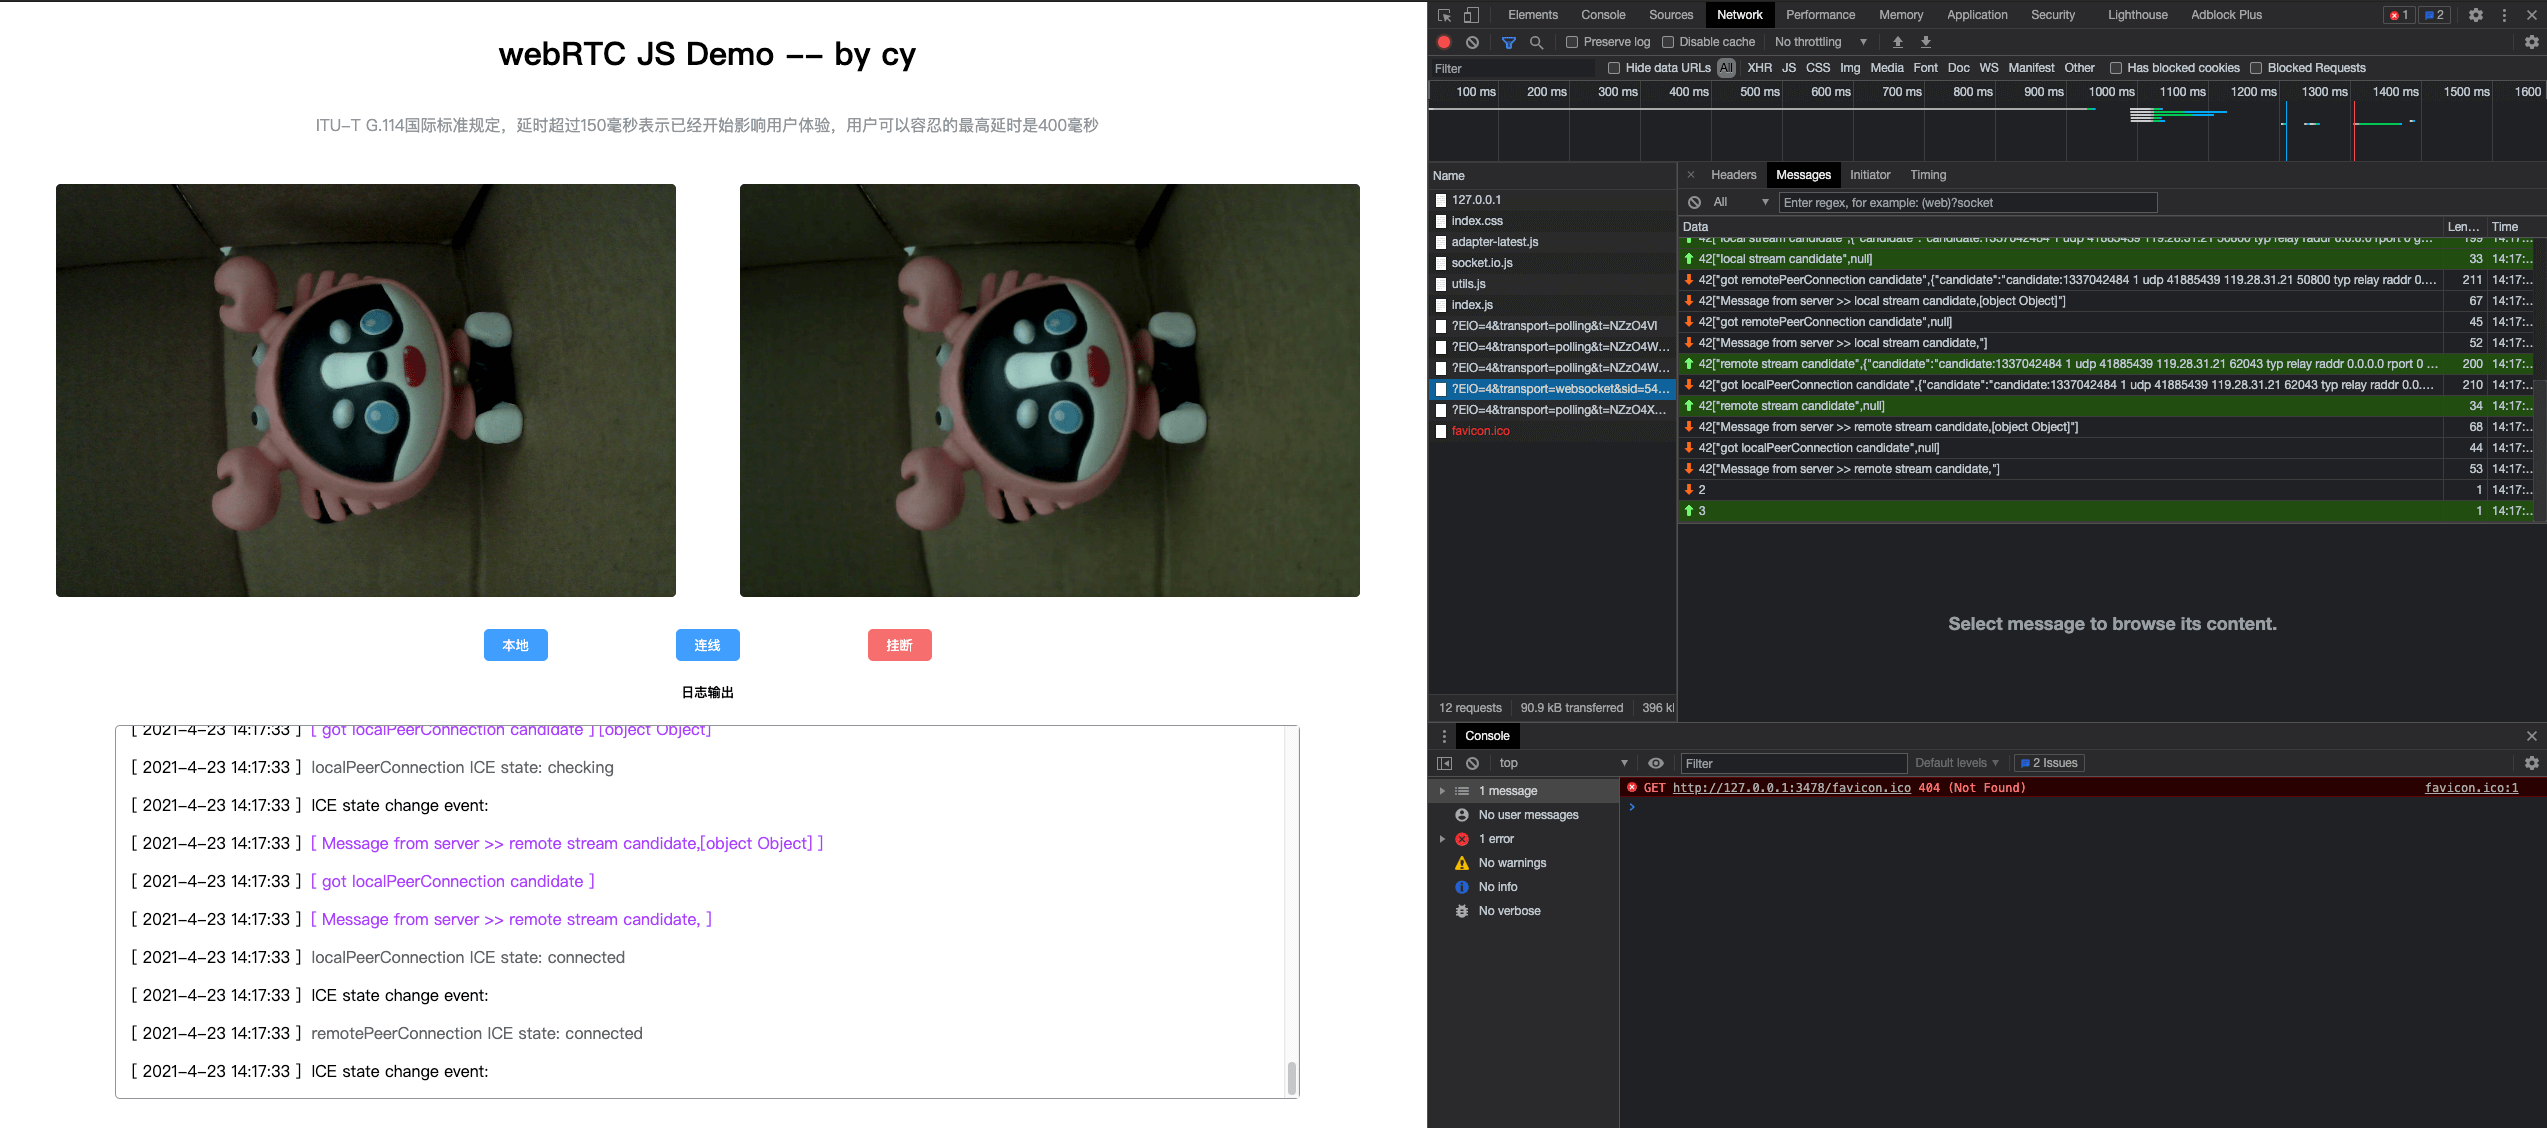
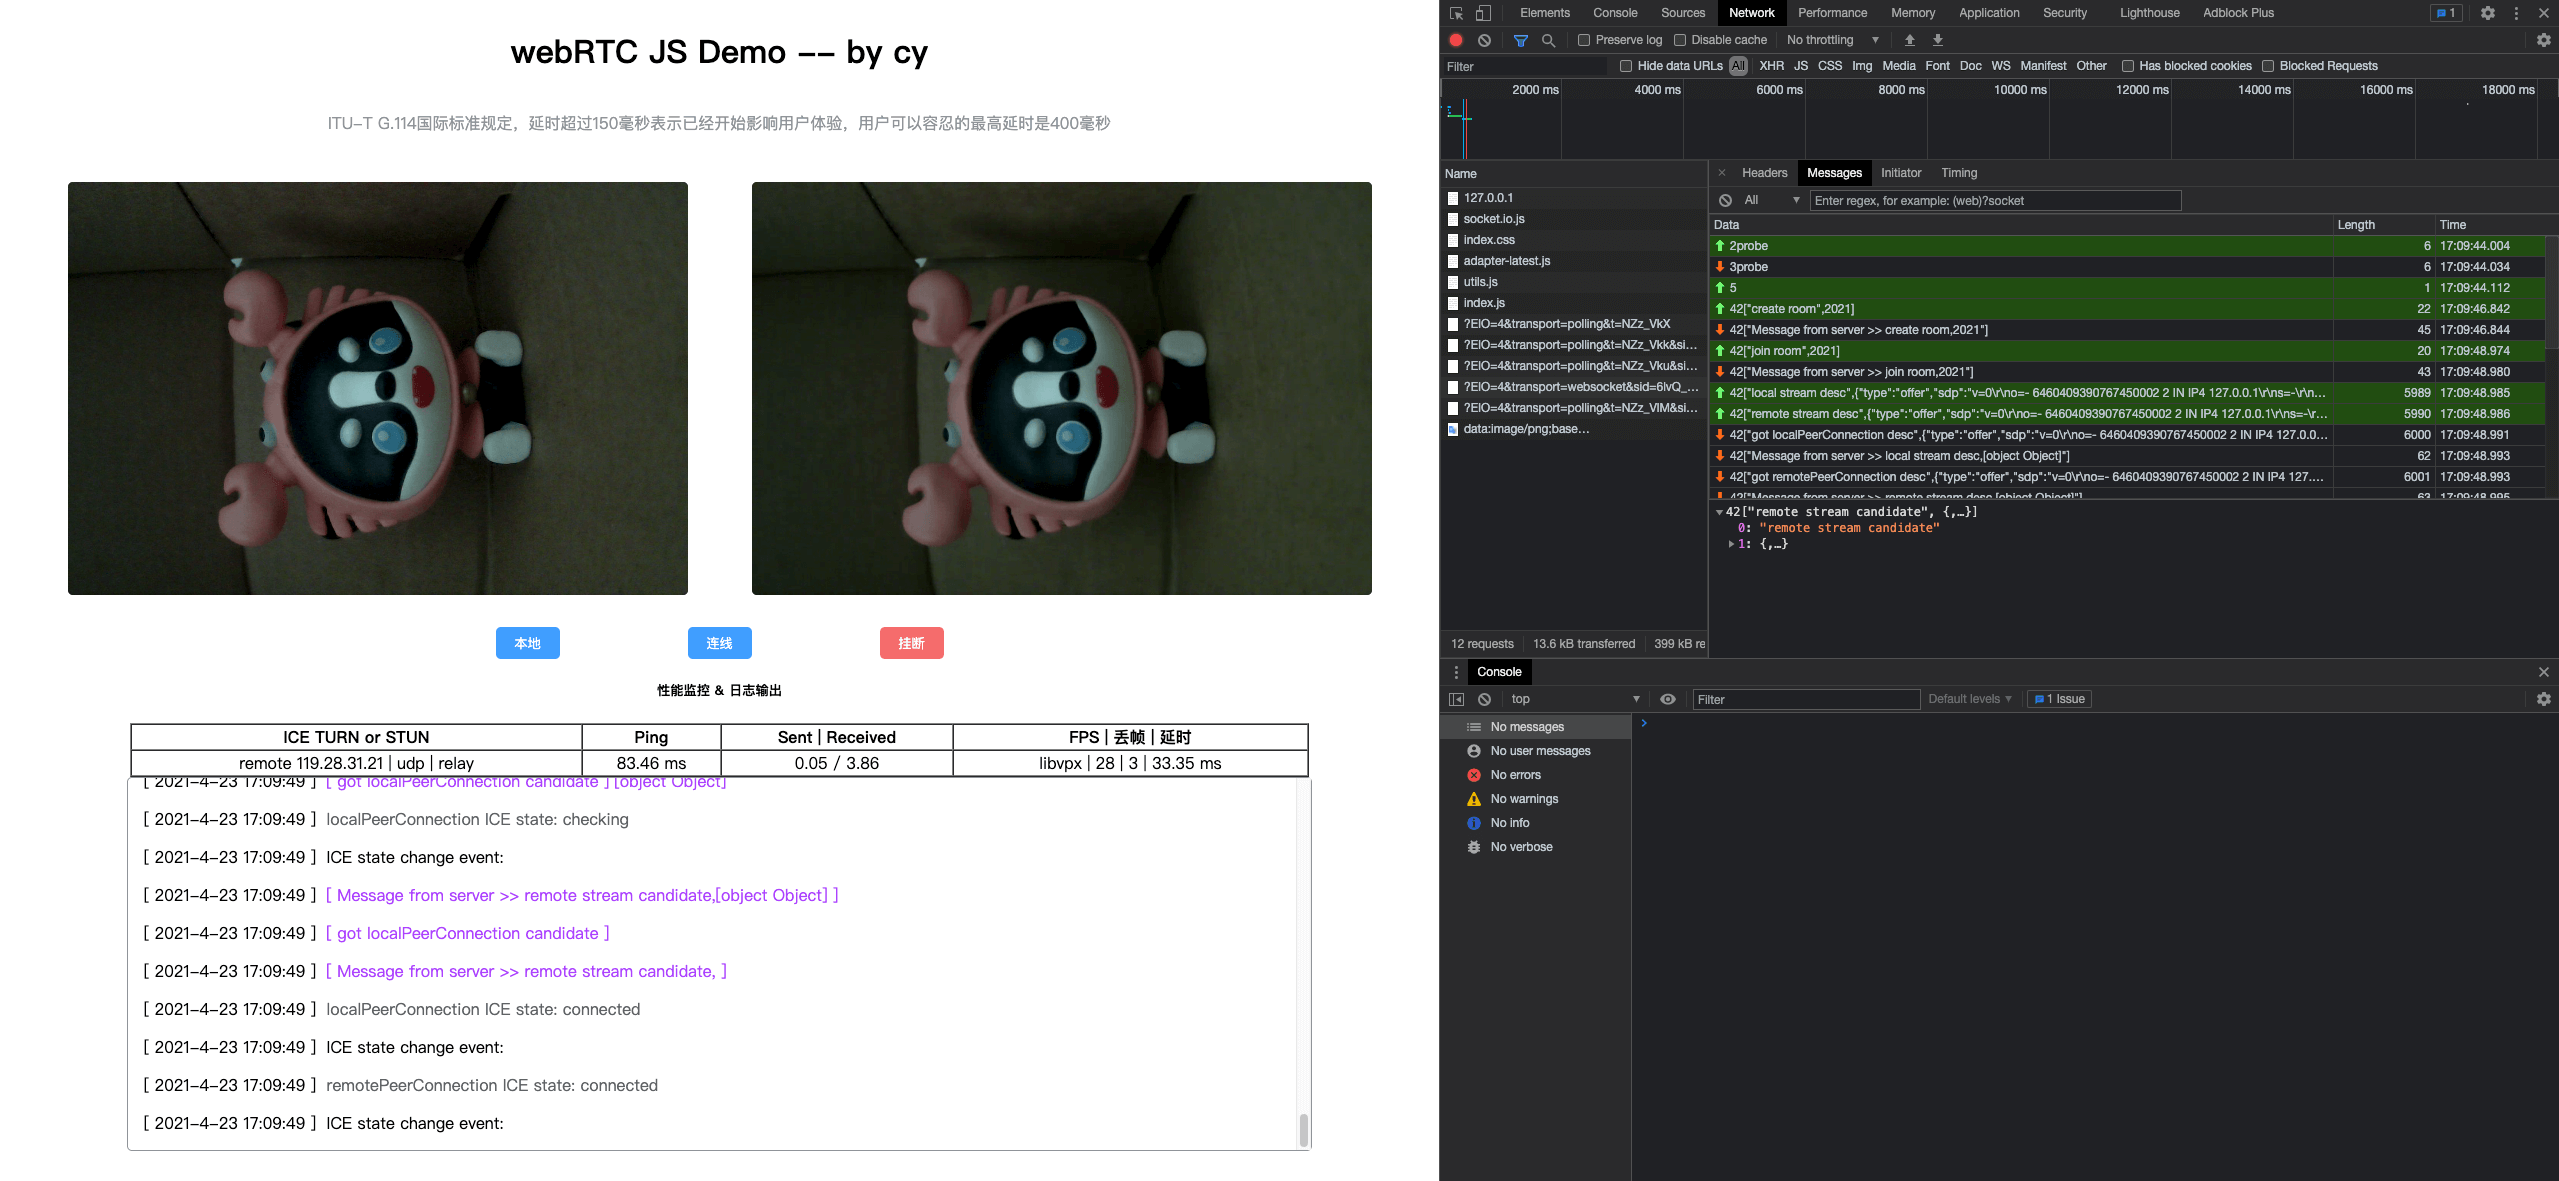
add performance monitoring fix : )

diff --git a/html/index.js b/html/index.js
@@ -43,10 +43,12 @@ const offerOptions = {
   offerToReceiveAudio: 1,
   offerToReceiveVideo: 1
 }
+let timer
 
 // 变量声明
 const localVideo = document.querySelector('#localVideo')
 const remoteVideo = document.querySelector('#remoteVideo')
+const rttDom = document.querySelectorAll('td')
 
 let localMediaStream, remoteMediaStream
 let localPeerConnection, remotePeerConnection
@@ -62,6 +64,7 @@ const getLocalVideoStream = async () => {
     localMediaStream = mediaStream
 
     localPeerConnection = new RTCPeerConnection(configuration)
+
     localPeerConnection.addEventListener('icecandidate', e => onIceCandidate(localPeerConnection, e))
     localPeerConnection.addEventListener('iceconnectionstatechange', e => onIceStateChange(localPeerConnection, e))
 
@@ -89,6 +92,21 @@ const p2pConnection = async () => {
     }
 
     remotePeerConnection = new RTCPeerConnection(configuration)
+    timer = setInterval(() => {
+      remotePeerConnection.getStats(null).then(stats => {
+        stats.forEach(report => {
+          if (report && report.type === 'candidate-pair') {
+            rttDom[1].innerText = ((report.totalRoundTripTime / report.responsesReceived) * 1000).toFixed(2) + ' ms'
+            rttDom[2].innerText = (report.bytesSent / 1024 / 1024).toFixed(2) + ' / ' + (report.bytesReceived / 1024 / 1024).toFixed(2)
+          } else if (report && report.type === 'remote-candidate') {
+            rttDom[0].innerText = `remote ${report.ip} | ${report.protocol} | ${report.candidateType}`
+          } else if (report && report.type === 'inbound-rtp') {
+            rttDom[3].innerText = `${report.decoderImplementation} | ${report.framesPerSecond} | ${report.framesDropped} | ${(report.totalInterFrameDelay / report.framesReceived * 1000).toFixed(2)} ms`
+          }
+        })
+      })
+    }, 1e3)
+
     remotePeerConnection.addEventListener('icecandidate', e => onIceCandidate(remotePeerConnection, e))
     remotePeerConnection.addEventListener('iceconnectionstatechange', e => onIceStateChange(remotePeerConnection, e))
     
@@ -109,6 +127,7 @@ const p2pConnection = async () => {
 
 // 挂断
 const hangUp = () => {
+  clearInterval(timer)
   localPeerConnection.close()
   remotePeerConnection.close()
   localPeerConnection = null

diff --git a/html/index.html b/html/index.html
@@ -23,7 +23,21 @@
     <button class="hangUp" onclick="hangUp()">挂断</button>
   </section>
 
-  <h5>日志输出</h5>
+  <h5>性能监控 & 日志输出</h5>
+  <table id="table" border="1" cellspacing="0">
+    <tr>
+      <th>ICE TURN or STUN</th>
+      <th>Ping</th>
+      <th>Sent | Received</th>
+      <th>FPS | 丢帧 | 延时</th>
+    </tr>
+    <tr>
+      <td></td>
+      <td></td>
+      <td></td>
+      <td></td>
+    </tr>
+  </table>
   <div name="textarea" id="textarea" cols="100" rows="10"></div>
 
   <script src="https://webrtc.github.io/adapter/adapter-latest.js"></script>

diff --git a/html/index.css b/html/index.css
@@ -52,3 +52,9 @@ button:hover {
   border-radius: 5px;
   padding: 0 1rem;
 }
+#table {
+  width: 82vw;
+}
+td {
+  text-align: center;
+}
